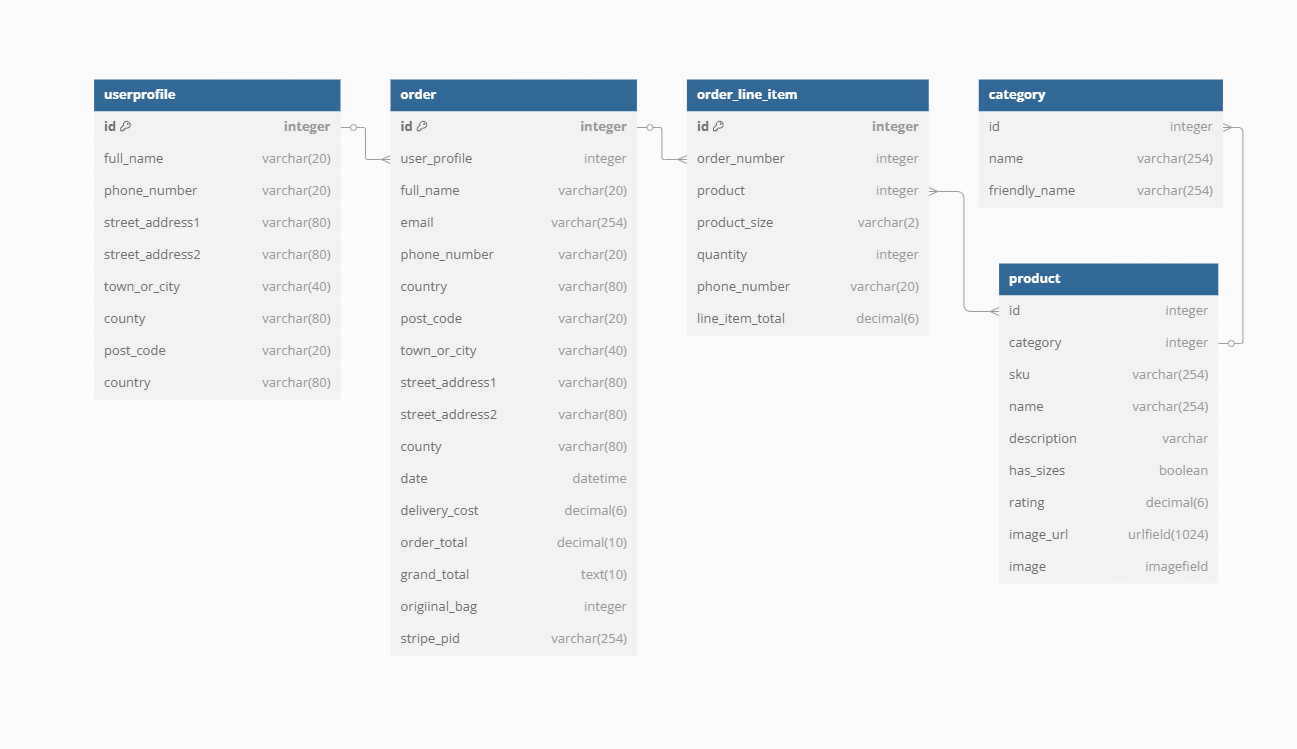
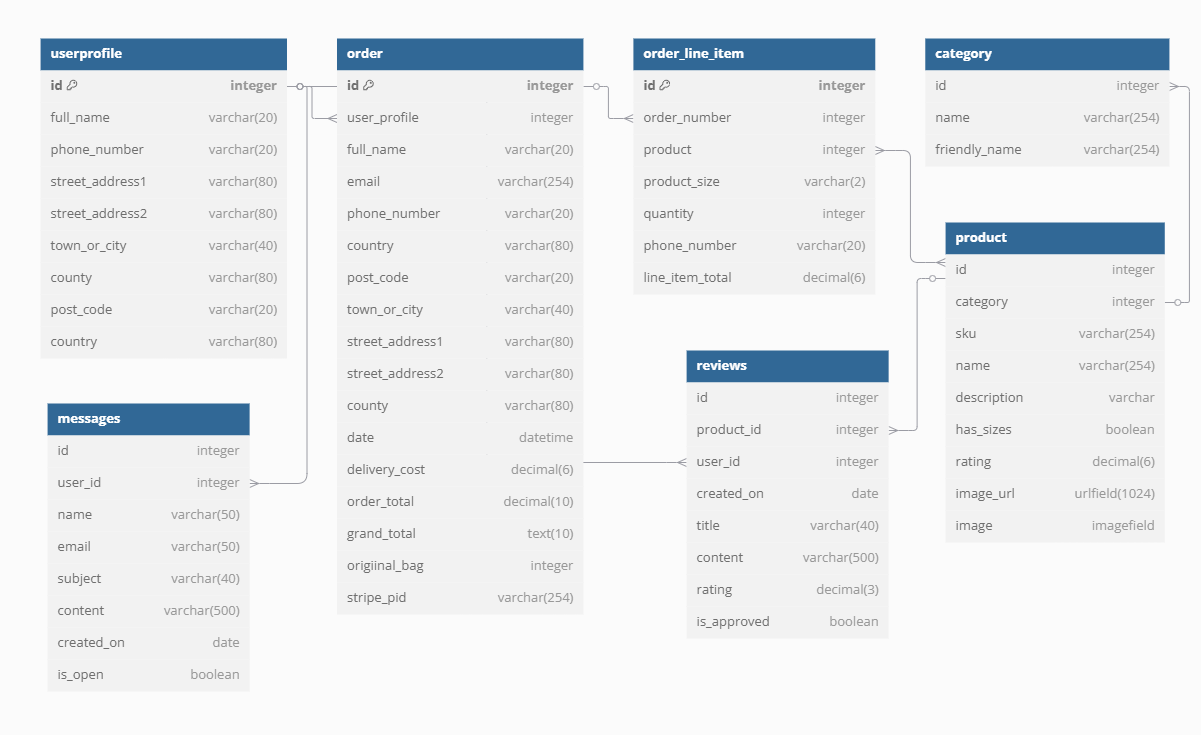
add management option to mobile header

diff --git a/templates/includes/mobile-top-header.html b/templates/includes/mobile-top-header.html
@@ -33,6 +33,7 @@
           {% if request.user.is_authenticated %}
               {% if request.user.is_superuser %}
                   <a href="{% url 'add_product' %}" class="dropdown-item">Product Management</a>
+                  <a href="{% url 'management' %}" class="dropdown-item hvr-grow">Messages & Reviews</a>
               {% endif %}
               <a href="{% url 'profile' %}" class="dropdown-item">My Profile</a>
               <a href="{% url 'account_logout' %}" class="dropdown-item">Logout</a>

diff --git a/README.md b/README.md
@@ -963,6 +963,16 @@ This confirmed that:
     </details>
     <br>
 
+    <details><summary>Management Page</summary>
+    <img src="leos_oreos\docs\images\testing\l-management.png">
+    </details>
+    <br>
+
+    <details><summary>Contact Us Page</summary>
+    <img src="leos_oreos\docs\images\testing\l-contact-us.png">
+    </details>
+    <br>
+
 ### Functional Testing
 -   9 test categories and 40 test product were loaded into the database(s) in development and production via JSON files.
 
@@ -1037,10 +1047,6 @@ This confirmed that:
     -   Webhook Handler test
     <br>
 
-    #### Review Testing
-    -   .
-
-
     <details><summary>Stripe Logs - Payments</summary>
     <img src="leos_oreos\docs\images\testing\ss-stripe-logs1.png">
     </details>
@@ -1055,7 +1061,10 @@ This confirmed that:
     <img src="leos_oreos\docs\images\testing\ss-stripe-logs3.png">
     </details>
     <br>
-   
+
+#### Review Testing
+    -  
+
 -   ####  Admin Testing
     -   Add Product
         -   Product can be added via 'product management' link from accounts menu or django admin console.
@@ -1063,9 +1072,18 @@ This confirmed that:
     -   Amend product
         -   Product can be editted from product and product-details pages or django admin console.
 
-    -   Delee product
+    -   Delete product
         -   Product can be deleted from product and product-details pages or django admin console.
 
+    -   Authorise Review
+        -
+    
+    -   Delete Review
+        -
+
+    -   Toggle Message open/closed
+        -
+        
 -   #### Search Function Testing
     -   By keyword
         -   via the search bar.
